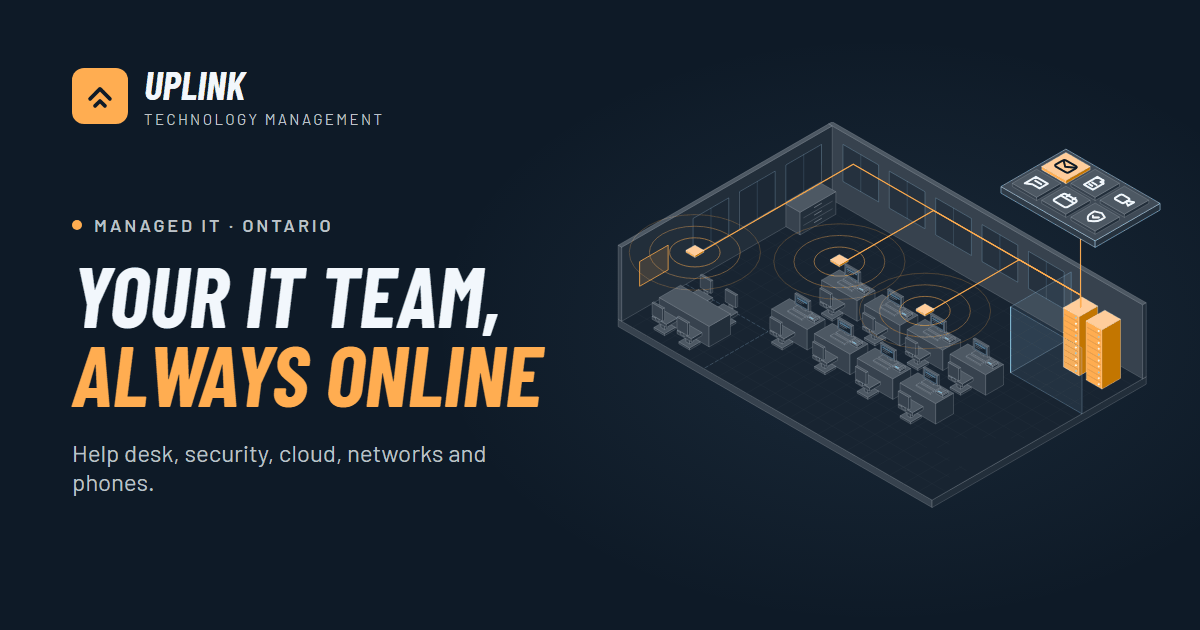
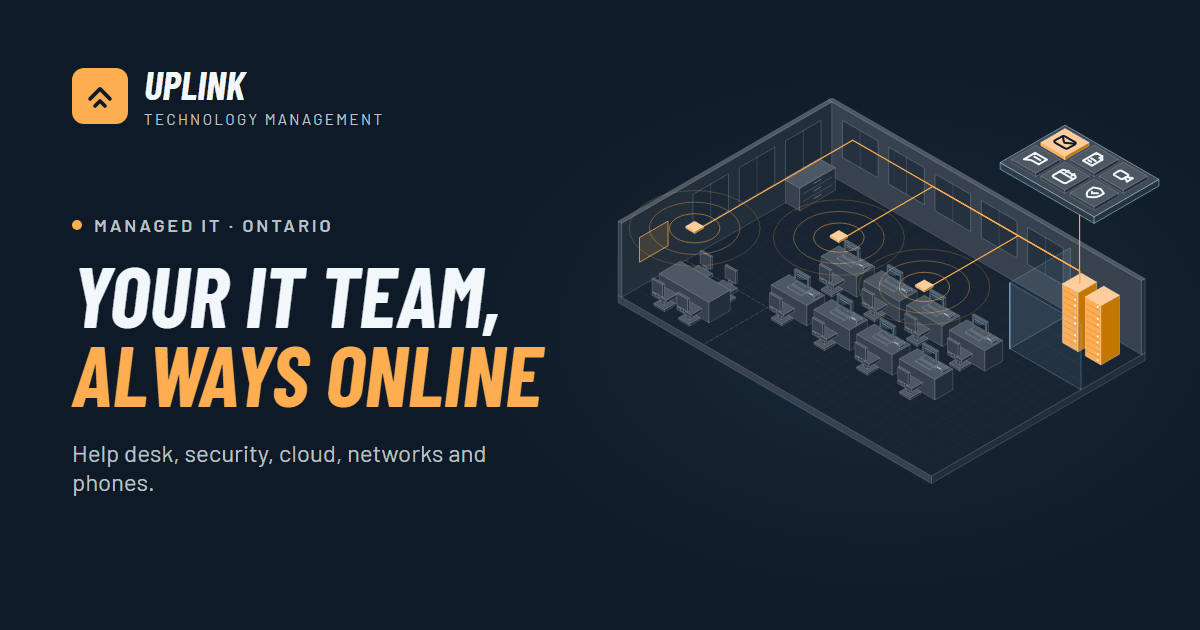
Office: phone cut labels clear of the room, check.py quiet on the cloud wall and the half-size grid
- office-compact.svg is 4:3 now; WORKSTATIONS and FIREWALL RACK sit in the band under the
  room's front-left edge, each leader running down-left into its tail (no doubling back)
- Phone hero box and img follow (4:3, 1200x900); og.png regenerated
- check.py: <g class="curve"> strips aren't checked against each other; --step PX counts
  SNAP pairs one grid step apart along an iso axis instead of listing them
- hero_cloud.py wraps the side wall in <g class="curve">

Changed region(s): [[0.4933, 0.1508, 0.9867, 0.8143], [0.2775, 0.181, 0.3083, 0.2111]]

diff --git a/src/components/home/hero.css b/src/components/home/hero.css
@@ -67,9 +67,9 @@
   .hero-art .stage { width: min(100%, max(28rem, calc((100svh - 34rem) * 40 / 31))); margin-inline: auto; }
 }
 
-/* phone: the still drawing (office-compact.svg, compact-cuts.css) is 3:2,
+/* phone: the still drawing (office-compact.svg, compact-cuts.css) is 4:3,
    so its box is too; no empty bands above and below it */
-@media (max-width: 599px) { .hero-art .stage { aspect-ratio: 3 / 2; } }
+@media (max-width: 599px) { .hero-art .stage { aspect-ratio: 4 / 3; } }
 
 /* ---- two columns: landscape tablets, short laptops and desktops ---------
    Text on the left, the office on the right, sized so both fit the first

diff --git a/tools/check.py b/tools/check.py
@@ -1,10 +1,17 @@
 """Generic geometry checks.
-usage: python check.py <svgfile> [startline endline]   (lines for inline svg inside html)
+usage: python check.py <svgfile> [startline endline] [--step PX]   (lines for inline svg inside html)
 Reports:
   ANGLE  edges that are close to (but not exactly on) an iso axis (30/150/90 deg)
   SNAP   vertices of different shapes that almost (not exactly) coincide
   TJOIN  vertices that almost (not exactly) touch another shape's edge
   DOT    leader dots (.co circles) and what filled faces they sit on
+Two narrow exceptions, both opt-in by the drawing:
+  <g class="curve">  a curved surface cut into flat strips (the hero cloud's side wall). Its strips are not iso
+                     edges (no ANGLE) and their outline points sit a couple of px apart by design, so SNAP and TJOIN
+                     skip pairs where both shapes are in curve groups. Pairs with any other shape are still checked.
+  --step PX          the drawing's props sit on a grid whose step renders under 2px (office: 0.0625 x 28.127 =
+                     1.758px), so parts one step apart look like near-misses. A SNAP pair exactly one step apart
+                     along an iso axis (within the 0.1px rounding of the file) is counted, not listed.
 """
 import sys, math
 from iso import load, classify
@@ -30,19 +37,35 @@ def is_leader(sh):
     p = sh.el.getparent()
     return p is not None and 'co' in (p.get('class') or '').split()
 
+def is_curve(sh):
+    p = sh.el.getparent()
+    return p is not None and 'curve' in (p.get('class') or '').split()
+
+def one_step(p, q, step):
+    # q - p is one grid step along an iso axis: vertical, or 30 deg either side of horizontal
+    dx, dy = q[0] - p[0], q[1] - p[1]
+    for ax, ay in ((0, 1), (math.cos(math.pi / 6), 0.5), (math.cos(math.pi / 6), -0.5)):
+        along, across = dx * ax + dy * ay, dx * ay - dy * ax
+        if abs(abs(along) - step) < 0.15 and abs(across) < 0.15:
+            return True
+    return False
+
 def is_free(sh):
     # class="mark" (arrowheads, 2D markers) or class="free" (parts tilted on purpose, like a laptop lid)
     return bool({'mark', 'free'} & set((sh.a.get('class') or '').split()))
 
 def main():
-    text = get_text(sys.argv)
-    off = int(sys.argv[2]) - 1 if len(sys.argv) > 3 else 0
+    argv, step = list(sys.argv), None
+    if '--step' in argv:
+        i = argv.index('--step'); step = float(argv[i + 1]); del argv[i:i + 2]
+    text = get_text(argv)
+    off = int(argv[2]) - 1 if len(argv) > 3 else 0
     _, shapes = load(text)
     geo = [s for s in shapes if s.subs and not is_ui(s)]
     out = []
     # ANGLE
     for s in geo:
-        if is_leader(s) or is_free(s): continue   # leaders, markers and tilted parts are off-axis by design
+        if is_leader(s) or is_free(s) or is_curve(s): continue   # leaders, markers, tilted parts and curves are off-axis by design
         for p, q in s.edges():
             k, d, o, ln = classify(p, q)
             if k is None or ln < 3: continue
@@ -57,7 +80,7 @@ def main():
     grid = {}
     for v in verts:
         grid.setdefault((int(v[0][0]//3), int(v[0][1]//3)), []).append(v)
-    seen = set()
+    seen = set(); stepped = 0
     for (gx, gy), vs in grid.items():
         cand = []
         for dx in (-1, 0, 1):
@@ -65,18 +88,21 @@ def main():
         for a in vs:
             for b in cand:
                 if a[1] == b[1] or geo[a[1]].line == geo[b[1]].line: continue
+                if is_curve(geo[a[1]]) and is_curve(geo[b[1]]): continue
                 d = math.dist(a[0], b[0])
                 if 0.15 < d < 2.0:
                     key = tuple(sorted([(round(a[0][0],1), round(a[0][1],1)), (round(b[0][0],1), round(b[0][1],1))]))
                     if key in seen: continue
                     seen.add(key)
+                    if step and one_step(a[0], b[0], step):
+                        stepped += 1; continue
                     out.append(f'SNAP  L{geo[a[1]].line+off}/L{geo[b[1]].line+off} d={d:.2f} {a[0][0]:.1f},{a[0][1]:.1f} vs {b[0][0]:.1f},{b[0][1]:.1f}')
     # TJOIN (vertex near other shape's edge)
     for i, s in enumerate(geo):
         for sub in s.subs:
             for p in sub:
                 for j, t in enumerate(geo):
-                    if j == i: continue
+                    if j == i or (is_curve(s) and is_curve(t)): continue
                     for a, b in t.edges():
                         ln = math.dist(a, b)
                         if ln < 4: continue
@@ -101,6 +127,6 @@ def main():
                 except Exception: pass
             out.append(f'DOT   L{s.line+off} at {s.c[0]:.1f},{s.c[1]:.1f} on: {hits[-3:]}')
     print('\n'.join(out))
-    print(f'-- {len(geo)} geometric shapes, {len(out)} findings', file=sys.stderr)
+    print(f'-- {len(geo)} geometric shapes, {len(out)} findings' + (f', {stepped} SNAP pairs one {step}px step apart (not listed)' if step else ''), file=sys.stderr)
 
 main()

diff --git a/tools/gen_office.py b/tools/gen_office.py
@@ -3,7 +3,7 @@
   public/assets/img/office-build.svg  animated reference copy of the hero (not linked; carries its Barlow letters)
   public/assets/img/hero-office.svg  the hero, fetched by home.js on screens 600px and wider (page fonts apply)
   src/components/home/hero-flows.svg  the hero's moving dashes, inlined by Hero.astro
-  public/assets/img/office-compact.svg  phone cut: static, cropped 3:2 closer on the room, two big labels, no card or badges
+  public/assets/img/office-compact.svg  phone cut: static, cropped 4:3 closer on the room, two big labels, no card or badges
 usage: python tools/gen_office.py public
 Edit the numbers below and run again; don't hand-edit any of the three.
 The hero has its own floor layout for now ('hero layout' below: desk rows, lounge, guest Wi-Fi, reception, entrance);
@@ -98,14 +98,16 @@ LABELS = [  # dot (world), elbow (screen), colour, title, subline, delay[, side:
     ((13.25, 9.25, 1.25), (634.1, 695.7), pal.SKY, 'WORKSTATIONS', 'managed + patched', 2960),
     ((WALL_T, (TV[0] + TV[1]) / 2, (TV[2] + TV[3]) / 2), (290.0, 523.7), pal.SKY, 'TEAMS ROOM', 'one-touch meeting join', 3040),
 ]
-# compact phone cut ('compact'): a 3:2 crop in page coordinates and two labels at COMPACT_K, so at 340px wide
-# titles render >= 14px and sublines >= 12px. Text sits where nothing stands: WORKSTATIONS below the room's
-# front-left edge, FIREWALL RACK on the open floor right of the desks and past the front-right edge.
-COMPACT_CROP = (220, 114, 990, 660)    # the whole room and tray, no card
-COMPACT_K = 1.85
+# compact phone cut ('compact'): a 4:3 crop in page coordinates and two labels at COMPACT_K, so at 340px wide
+# titles render >= 14px and sublines >= 12px. Text sits outside the room, under its front-left edge, stepped down
+# it: WORKSTATIONS first, FIREWALL RACK below and to the right of it. Both leaders run down-left and their tails
+# carry on left to the words; FIREWALL RACK's crosses the open floor and leaves the room clear of the front corner.
+# 4:3 rather than 3:2 so the band under the room holds both labels at full size.
+COMPACT_CROP = (220, 114, 992, 744)    # the whole room and tray, no card, a band below the room for the labels
+COMPACT_K = 1.86
 COMPACT_LABELS = [  # dot (world), elbow (screen), colour, title, subline, side
-    (LABELS[0][0], (760.0, 675.0), pal.AMBER, 'FIREWALL RACK', 'core switch + backups', 'right'),
-    (LABELS[2][0], (651.8, 683.0), pal.SKY, 'WORKSTATIONS', 'managed + patched', 'left'),
+    (LABELS[0][0], (730.0, 783.1), pal.AMBER, 'FIREWALL RACK', 'core switch + backups', 'left'),
+    (LABELS[2][0], (640.3, 682.1), pal.SKY, 'WORKSTATIONS', 'managed + patched', 'left'),
 ]
 # ---- hero layout (hero only for now; office, build and compact keep the plan above) ------------
 # Back half, the work area: 3 desks on the back wall and 2 in front (a walkway by the meeting room), gaps between them and a 2-wide aisle, set right so the meeting
@@ -760,7 +762,7 @@ def render(v):
     title = TITLES['office' if v == 'compact' else v]
     if v == 'compact':
         crop = ' '.join(f'{c:g}' for c in COMPACT_CROP)
-        head = f'<svg xmlns="http://www.w3.org/2000/svg" id="plain" viewBox="{crop}" width="1200" height="800" role="img" aria-label="{title}">'
+        head = f'<svg xmlns="http://www.w3.org/2000/svg" id="plain" viewBox="{crop}" width="1200" height="900" role="img" aria-label="{title}">'
         style = font_style(body) + '\n<style>svg:target .lbl{display:none}</style>'
     elif v == 'office':
         head = f'<svg xmlns="http://www.w3.org/2000/svg" id="plain" viewBox="0 0 1200 800" width="1200" height="800" role="img" aria-label="{title}">'

diff --git a/tools/hero_cloud.py b/tools/hero_cloud.py
@@ -6,6 +6,7 @@ The face is a union of circles on a plane that runs along the room's x axis (u a
 u * (cos30, 0.5) + v * (0, -1). The slab runs back along -y, which on screen is DEPTH * (cos30, -0.5).
 Each outline segment sweeps one strip of the side wall; strips are shaded by their normal and merged when the shade
 repeats, so the wall is one smooth ramp with no seams, and the face carries its own soft gradient.
+The strips sit in <g class="curve">, so check.py doesn't read their 2px outline steps as near-misses.
 """
 import math
 from shapely.geometry import Point, Polygon, box
@@ -110,7 +111,7 @@ def cloud_shapes():
             f'<stop offset="0" stop-color="{FACE_TOP}"/><stop offset="1" stop-color="{FACE_BOT}"/></linearGradient></defs>')
     rim = f'fill="none" stroke="{RIM}" stroke-width="{RIM_W}" stroke-opacity="{RIM_OP}" stroke-linejoin="round"'
     return '\n'.join([
-        defs, *out,
+        defs, '<g class="curve">', *out, '</g>',
         f'<path d="{path(face_s.exterior.coords)}" fill="url(#{GID}-f)"/>',
         f'<path d="{path(sil.exterior.coords)}" {rim}/>',
         f'<path d="{path(face_s.exterior.coords)}" {rim}/>',

diff --git a/tools/rules_office.py b/tools/rules_office.py
@@ -1,5 +1,6 @@
 """painter.py rules for office.svg: each box's base height, looked up from gen_office.py by its left face.
-usage: python tools/painter.py public/assets/img/office.svg 616.4 240.2 28.127 tools/rules_office.py"""
+usage: python tools/painter.py public/assets/img/office.svg 616.4 240.2 28.127 tools/rules_office.py
+check: python tools/check.py public/assets/img/office.svg --step 1.758   (the props' 0.0625 grid is 1.758px here)"""
 import gen_office
 from iso import C30
 

diff --git a/README.md b/README.md
@@ -75,7 +75,7 @@ Every drawing was made by a generator with world → screen = `origin + ((x − 
 - `isoprops.py` – shared kit: office chair, monitor on a stand (with `screen_glass` / `app_window` for its screen), VoIP desk phone, and `on_front` / `on_side` / `on_top` for drawing flat details exactly on an iso face. Props sit on a grid (x, y in 0.25s, z in 0.125s) so their parts can never nearly-touch; keep the scene around them on the same grid.
 - Compact cuts: every `gen_*.py` (except the tower) also writes `NAME-compact.svg`, the same scene framed closer with fewer, bigger labels (its `COMPACT` settings; `isogen.doc(crop=)`, `label(scale=)`, a newline in a subline wraps it). Pages swap it in with `<picture>` where the drawing shows small (Services below 1200px wide, About and the Work pop-up below 1600px), cards always use `NAME-compact.svg?card#plain` (no labels; the `?card` keeps the browser from reusing the label-less copy elsewhere, since it caches an SVG by address without the `#`), and on phones the home hero shows `office-compact.svg` in place of the animated drawing. When you change a drawing's labels or layout, check its compact cut too.
 - `svgfont.py` – an SVG loaded with `<img>` can't see the page's fonts, so each drawing carries just the Barlow letters it uses (fonts in `tools/fonts/`, SIL OFL). The generators do it automatically. Needs `pip install fonttools brotli`.
-- `check.py file.svg` – edges near (but not on) an iso angle (skipped: leader lines in `.co` groups, `class="mark"` arrowheads, `class="free"` parts tilted on purpose), near-miss vertices, leader dots and what they sit on
+- `check.py file.svg` – edges near (but not on) an iso angle (skipped: leader lines in `.co` groups, `class="mark"` arrowheads, `class="free"` parts tilted on purpose), near-miss vertices, leader dots and what they sit on. Two opt-in exceptions: `<g class="curve">` holds a curved surface cut into flat strips (the hero cloud's side wall), whose strips are not checked against each other; `--step PX` counts, rather than lists, vertex pairs exactly one grid step apart along an iso axis, for drawings whose props sit on a grid finer than 2px on screen (office: `--step 1.758`, 0.0625 × 28.127)
 - `painter.py` – finds boxes drawn in the wrong order or poking into each other. Each drawing has a `rules_<name>.py`; its first lines give the exact command
 - `gen_og.py public` – the share picture `og.png` (1200×630) and `apple-touch-icon.png` (180×180). Screenshots of a small page made from the site's tokens, fonts and `office-compact.svg`; rerun after changing those.
 - `verify_footer.py out/` – against `npm run serve`: the hero builds, tiles respond to hover, the tower grows on scroll, every footer tab at 1440×900 (one screen tall, no panel overflow, map moves), and nine pages at phone, tablet, 1440×900 and 3440×1440 with no sideways scroll.

diff --git a/notes.md b/notes.md
@@ -14,10 +14,7 @@ Things to fix, polish or decide. Remove a line when it's done; add new ones as t
 ## Drawings
 - [ ] VoIP: the headset is still small and tucked against the monitor (mic boom about 10px); the desk phone's handset sits flat rather than raised in a cradle.
 - [ ] Hero labels: sublines are 21 units now, but on 1024–1180px-wide screens they still render at about 9.5–10px (the drawing is narrow there). Bigger fix: a tablet cut with fewer, larger labels.
-- [ ] Hero 3D cloud (`tools/hero_cloud.py`): `check.py` reports ~400 SNAP near-misses where its side-wall strips meet. Seams look clean on screen; quiet them if the checker learns about curved surfaces.
 - [ ] Hero on phones is a still picture (`office-compact.svg`): no build animation, no cloud.
-- [ ] Office plan: ~153 one-grid-step near-miss flags because the furniture is half size there. Not visible; tidy if the props get a half-size grid.
-- [ ] Office phone cut: the FIREWALL RACK title runs over the room's front edge (outlined to stay readable), and its leader doubles back.
 - [ ] Network phone cut: the VOIP PHONES leader crosses the back monitor.
 - [ ] Network: the access point's ceiling rod barely shows, so it can read as sitting low.
 - [ ] Security: the roof unit could use a fan or vent; the door could use a step.
